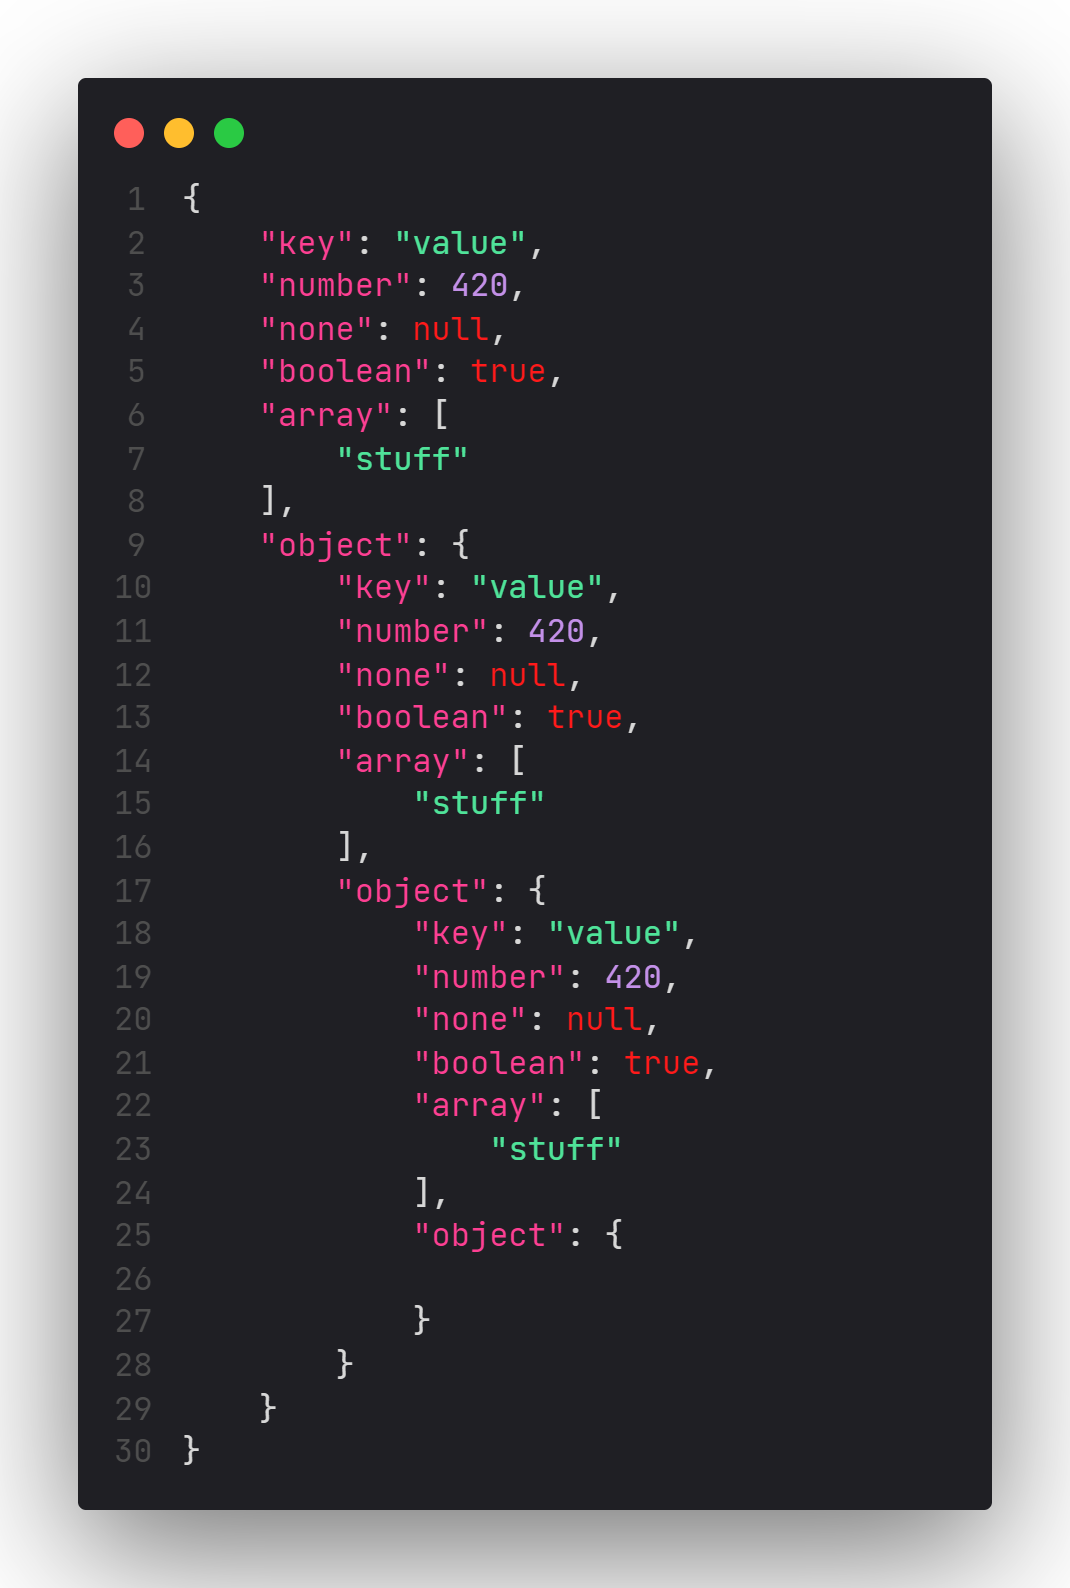
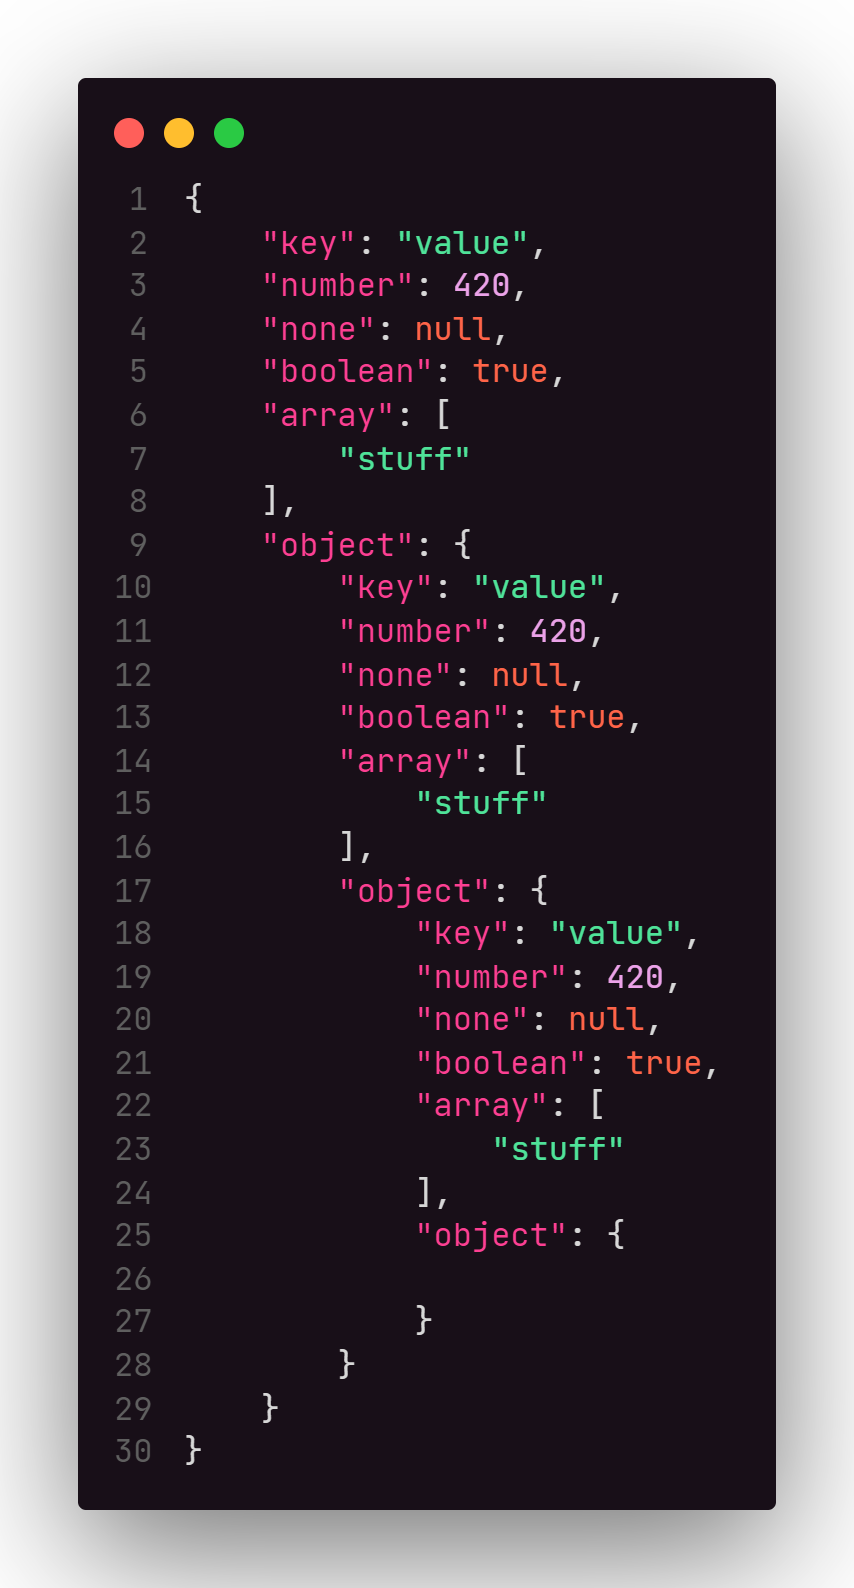
v0.4.0: make some changes
should be done

diff --git a/scripts/generator.py b/scripts/generator.py
@@ -65,7 +65,7 @@ def resolve_colors(
     return united
 
 
-def has_parents(template: Dict[str, Any]) -> bool:
+def theme_has_parents(template: Dict[str, Any]) -> bool:
     parents = template["generator"].get("parents", [])
     return len(parents) > 0
 
@@ -98,7 +98,7 @@ def list_set_add(array: List[H], element: H) -> List[H]:
     return array
 
 
-def inherit_from_parents(template: Dict[str, Any]) -> Dict[str, Any]:
+def theme_inherit_from_parents(template: Dict[str, Any]) -> Dict[str, Any]:
     """
     TODO: COMPLETE THIS FUNCTION
 
@@ -125,7 +125,7 @@ def inherit_from_parents(template: Dict[str, Any]) -> Dict[str, Any]:
 
     for parent_name in parents:
         parent = get_template(parent_name)
-        parent = inherit_from_parents(parent) # Recursion
+        parent = theme_inherit_from_parents(parent) # Recursion
         _add_template(parent)
     _add_template(template)
     template["generator"]["colors"] = generator_colors
@@ -136,8 +136,8 @@ def inherit_from_parents(template: Dict[str, Any]) -> Dict[str, Any]:
     return template
 
 
-def generate(template: Dict[str, Any]) -> Dict[str, Any]:
-    template = inherit_from_parents(template)
+def generate_theme(template: Dict[str, Any]) -> Dict[str, Any]:
+    template = theme_inherit_from_parents(template)
     output = get_theme_base(template["name"], template["type"])
     palette = get_palette(template["generator"]["palette"])
     colors = resolve_colors(template["generator"]["colors"], palette)

diff --git a/scripts/script.py b/scripts/script.py
@@ -19,7 +19,7 @@ def generate(*names: str) -> int:
     for name in names:
         print(f"Generating: {name}...", end="")
         template = generator.get_template(name)
-        output = generator.generate(template)
+        output = generator.generate_theme(template)
         json.dump(
             output,
             Path(generator.THEMES_PATH / (name + ".json")).open("w")

diff --git a/CHANGELOG.md b/CHANGELOG.md
@@ -1,4 +1,21 @@
-# LiVer v0.3.0 Changelog
+# LiVer v0.4.0 Changelog
+
+## Version 0.4.0
+
+Change Python API for converting templates into themes in anticipation for
+palette inheritance.
+
+Decrease the brightness of `dark-gray` and `calm-black` to make everything
+stand out more.
+
+Simplify syntax highlighting for operators, punctuation, keywords and
+string interpolation.
+
+Constants (static) are now vermillion again.
+
+Literals are now lilac instead of violet.
+
+String interpolators and formatting sequences are now yellow.
 
 ## Version 0.3.0
 

diff --git a/BUILD.md b/BUILD.md
@@ -1,0 +1,15 @@
+# Build Instructions
+
+To generate themes, run:
+
+```bash
+python -m scripts generate <name of theme>...
+```
+
+where `<name of theme>` is the file name of the theme under the `templates`
+folder minus the `.json` suffix at the end. So to build `liver-dark.json` and
+`liver-dark-full.json`, run:
+
+```bash
+python -m scripts generate liver-dark liver-dark-full
+```

diff --git a/README.md b/README.md
@@ -1,4 +1,4 @@
-# LiVer v0.3.0
+# LiVer v0.4.0
 
 [Github Repo](https://github.com/RenoirTan/liver)
 
